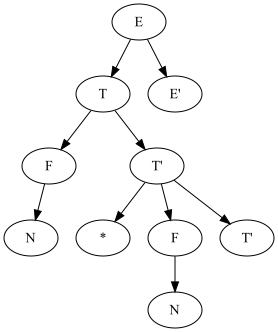
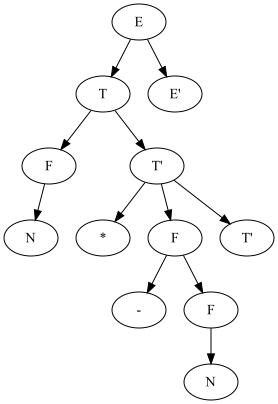
lab2 updated

diff --git a/mt/lab2/src/test/java/ru/ainur/parser/TestParserSimple.java b/mt/lab2/src/test/java/ru/ainur/parser/TestParserSimple.java
@@ -16,8 +16,8 @@ public class TestParserSimple extends TestParserBase {
     public void testInvalidExpressions() throws ParseException {
         testInvalid("100_000");
         testInvalid("$100");
-        testInvalid("52 % 12");
-        testInvalid("735 & 812");
+        testInvalid("52 \t% 12");
+        testInvalid("735     & 812");
     }
 
     @Test
@@ -41,9 +41,9 @@ public class TestParserSimple extends TestParserBase {
         );
 
         test("0", tree);
-        test("\t-12", tree);
-        test("10013 ", tree);
-        test("\r -735812", tree);
+        test("\t12", tree);
+        test("      10013 ", tree);
+        test("\r\r 735812", tree);
     }
 
     @Test
@@ -88,10 +88,12 @@ public class TestParserSimple extends TestParserBase {
                 new Tree("E'")
         );
 
-        test("(1)", tree);
-        test("(-52)", tree);
-        test("(-812)", tree);
-        test("(735)", tree);
+        test("(0)", tree);
+        test("\t (   0)", tree);
+        test("( 1 \t)", tree);
+        test("(52) \r  ", tree);
+        test("(812)\t\t", tree);
+        test("(\r\r735)", tree);
 
     }
 
@@ -119,7 +121,7 @@ public class TestParserSimple extends TestParserBase {
 
         test("(sin 1)", tree);
         test("(cos2)", tree);
-        test("(f -123)", tree);
+        test("(f 123)", tree);
         test("(mycoolfun 79528125252)", tree);
 
     }

diff --git a/mt/lab2/src/main/java/ru/ainur/draw/DrawGraphs.java b/mt/lab2/src/main/java/ru/ainur/draw/DrawGraphs.java
@@ -1,22 +1,15 @@
 package ru.ainur.draw;
 
-import guru.nidi.graphviz.attribute.Image;
-import guru.nidi.graphviz.attribute.Label;
-import guru.nidi.graphviz.attribute.Size;
-import guru.nidi.graphviz.engine.*;
-import guru.nidi.graphviz.model.Graph;
-import guru.nidi.graphviz.model.MutableGraph;
-import guru.nidi.graphviz.model.MutableNode;
+import guru.nidi.graphviz.engine.Format;
+import guru.nidi.graphviz.engine.Graphviz;
+import guru.nidi.graphviz.engine.GraphvizCmdLineEngine;
+import guru.nidi.graphviz.engine.GraphvizV8Engine;
 import ru.ainur.parser.ExpressionParser;
 import ru.ainur.parser.Tree;
 
-import java.awt.image.BufferedImage;
 import java.io.File;
 import java.io.IOException;
-import java.io.PrintWriter;
 import java.text.ParseException;
-
-import static guru.nidi.graphviz.model.Factory.*;
 
 
 public class DrawGraphs {
@@ -33,6 +26,7 @@ public class DrawGraphs {
         draw("52 * -812", "mul");
         draw("1 + 2 * 3", "add-mul");
         draw("1 * 2 + 3", "mul-add");
+        draw("(1+2)*sin(-3*(7-4)+2)", "example");
     }
 
     private static void draw(String input, String filename) throws ParseException, IOException {

diff --git a/mt/lab2/src/test/java/ru/ainur/lexer/TestLexerManyTokens.java b/mt/lab2/src/test/java/ru/ainur/lexer/TestLexerManyTokens.java
@@ -19,9 +19,8 @@ public class TestLexerManyTokens {
 
     @Test
     public void test2Tokens() throws ParseException {
-        test("2 -3", List.of(Token.N, Token.N));
-        test("52 -334534", List.of(Token.N, Token.N));
-        test("-123 812\r", List.of(Token.N, Token.N));
+        test("52 -", List.of(Token.N, Token.MINUS));
+        test("+ 123", List.of(Token.PLUS, Token.N));
 
 
         test("cos sin\r", List.of(Token.FUNC, Token.FUNC));
@@ -118,10 +117,6 @@ public class TestLexerManyTokens {
                 case 0 -> {
                     tokens.add(Token.N);
                     int num = random.nextInt(1_000_000);
-                    if (random.nextBoolean()) {
-                        num *= -1;
-                        sb.append(' ');
-                    }
                     sb.append(String.valueOf(num));
                     sb.append(' ');
                 }

diff --git a/mt/lab2/src/main/java/ru/ainur/parser/LexicalAnalyzer.java b/mt/lab2/src/main/java/ru/ainur/parser/LexicalAnalyzer.java
@@ -44,7 +44,10 @@ public class LexicalAnalyzer {
                 nextChar();
                 curToken = Token.LPAREN;
             }
-
+            case '-' -> {
+                nextChar();
+                curToken = Token.MINUS;
+            }
             case ')' -> {
                 nextChar();
                 curToken = Token.RPAREN;
@@ -52,13 +55,6 @@ public class LexicalAnalyzer {
             case '+' -> {
                 nextChar();
                 curToken = Token.PLUS;
-            }
-            case '-' -> {
-                nextChar();
-                if (checkSequence(Character::isDigit, Token.N)) {
-                    return;
-                }
-                curToken = Token.MINUS;
             }
             case '*' -> {
                 nextChar();

diff --git a/mt/lab2/src/test/java/ru/ainur/parser/TestParserPlusMinus.java b/mt/lab2/src/test/java/ru/ainur/parser/TestParserPlusMinus.java
@@ -66,9 +66,9 @@ public class TestParserPlusMinus extends TestParserBase {
 
 
         test("1\r " + sign + " 2", tree);
-        test("-12 " + sign + "\t 2", tree);
+        test("12 " + sign + "\t 2", tree);
         test("52 " + sign + " 812\t", tree);
-        test("\t-735234  " + sign + "\r -112313", tree);
+        test("\t735234  " + sign + "\r 112313", tree);
     }
 
 

diff --git a/mt/lab2/src/test/java/ru/ainur/parser/TestParserMultiply.java b/mt/lab2/src/test/java/ru/ainur/parser/TestParserMultiply.java
@@ -43,9 +43,9 @@ public class TestParserMultiply extends TestParserBase {
         );
         System.out.println(parse("1 * 2"));
         test("1\r * 2", tree);
-        test("-12 *\t 2", tree);
+        test("12 *\t 2", tree);
         test("52 * 812\t", tree);
-        test("\t-735234  *\r -112313", tree);
+        test("\t735234  *\r 112313", tree);
     }
 
     @Test

diff --git a/mt/lab2/src/test/java/ru/ainur/lexer/TestLexerOneToken.java b/mt/lab2/src/test/java/ru/ainur/lexer/TestLexerOneToken.java
@@ -17,9 +17,9 @@ public class TestLexerOneToken {
     @Test
     public void testNumber() {
         expect(Token.N, "1");
-        expect(Token.N, "-1");
+        expect(Token.N, "735 123");
         expect(Token.N, "52 (812)");
-        expect(Token.N, "-812 + smth else");
+        expect(Token.N, "812 + smth else");
     }
 
     @Test

diff --git a/mt/lab2/src/test/java/ru/ainur/parser/TestParserFunction.java b/mt/lab2/src/test/java/ru/ainur/parser/TestParserFunction.java
@@ -30,7 +30,7 @@ public class TestParserFunction extends TestParserBase {
 
         test("abs 12", tree);
         test("sin 15", tree);
-        test("f -12", tree);
-        test("f -12", tree);
+        test("f 12", tree);
+        test("f 0", tree);
     }
 }

diff --git a/mt/lab2/README.md b/mt/lab2/README.md
@@ -53,4 +53,6 @@ cos(60): <br/>
 ![alt text](examples/add-mul.png "add-mul")<br/>
 1 * 2 + 3:<br/>
 ![alt text](examples/mul-add.png "mul-add")<br/>
+(1+2) * sin(-3*(7-4)+2):<br/>
+![alt text](examples/example.png "example")<br/>
 
